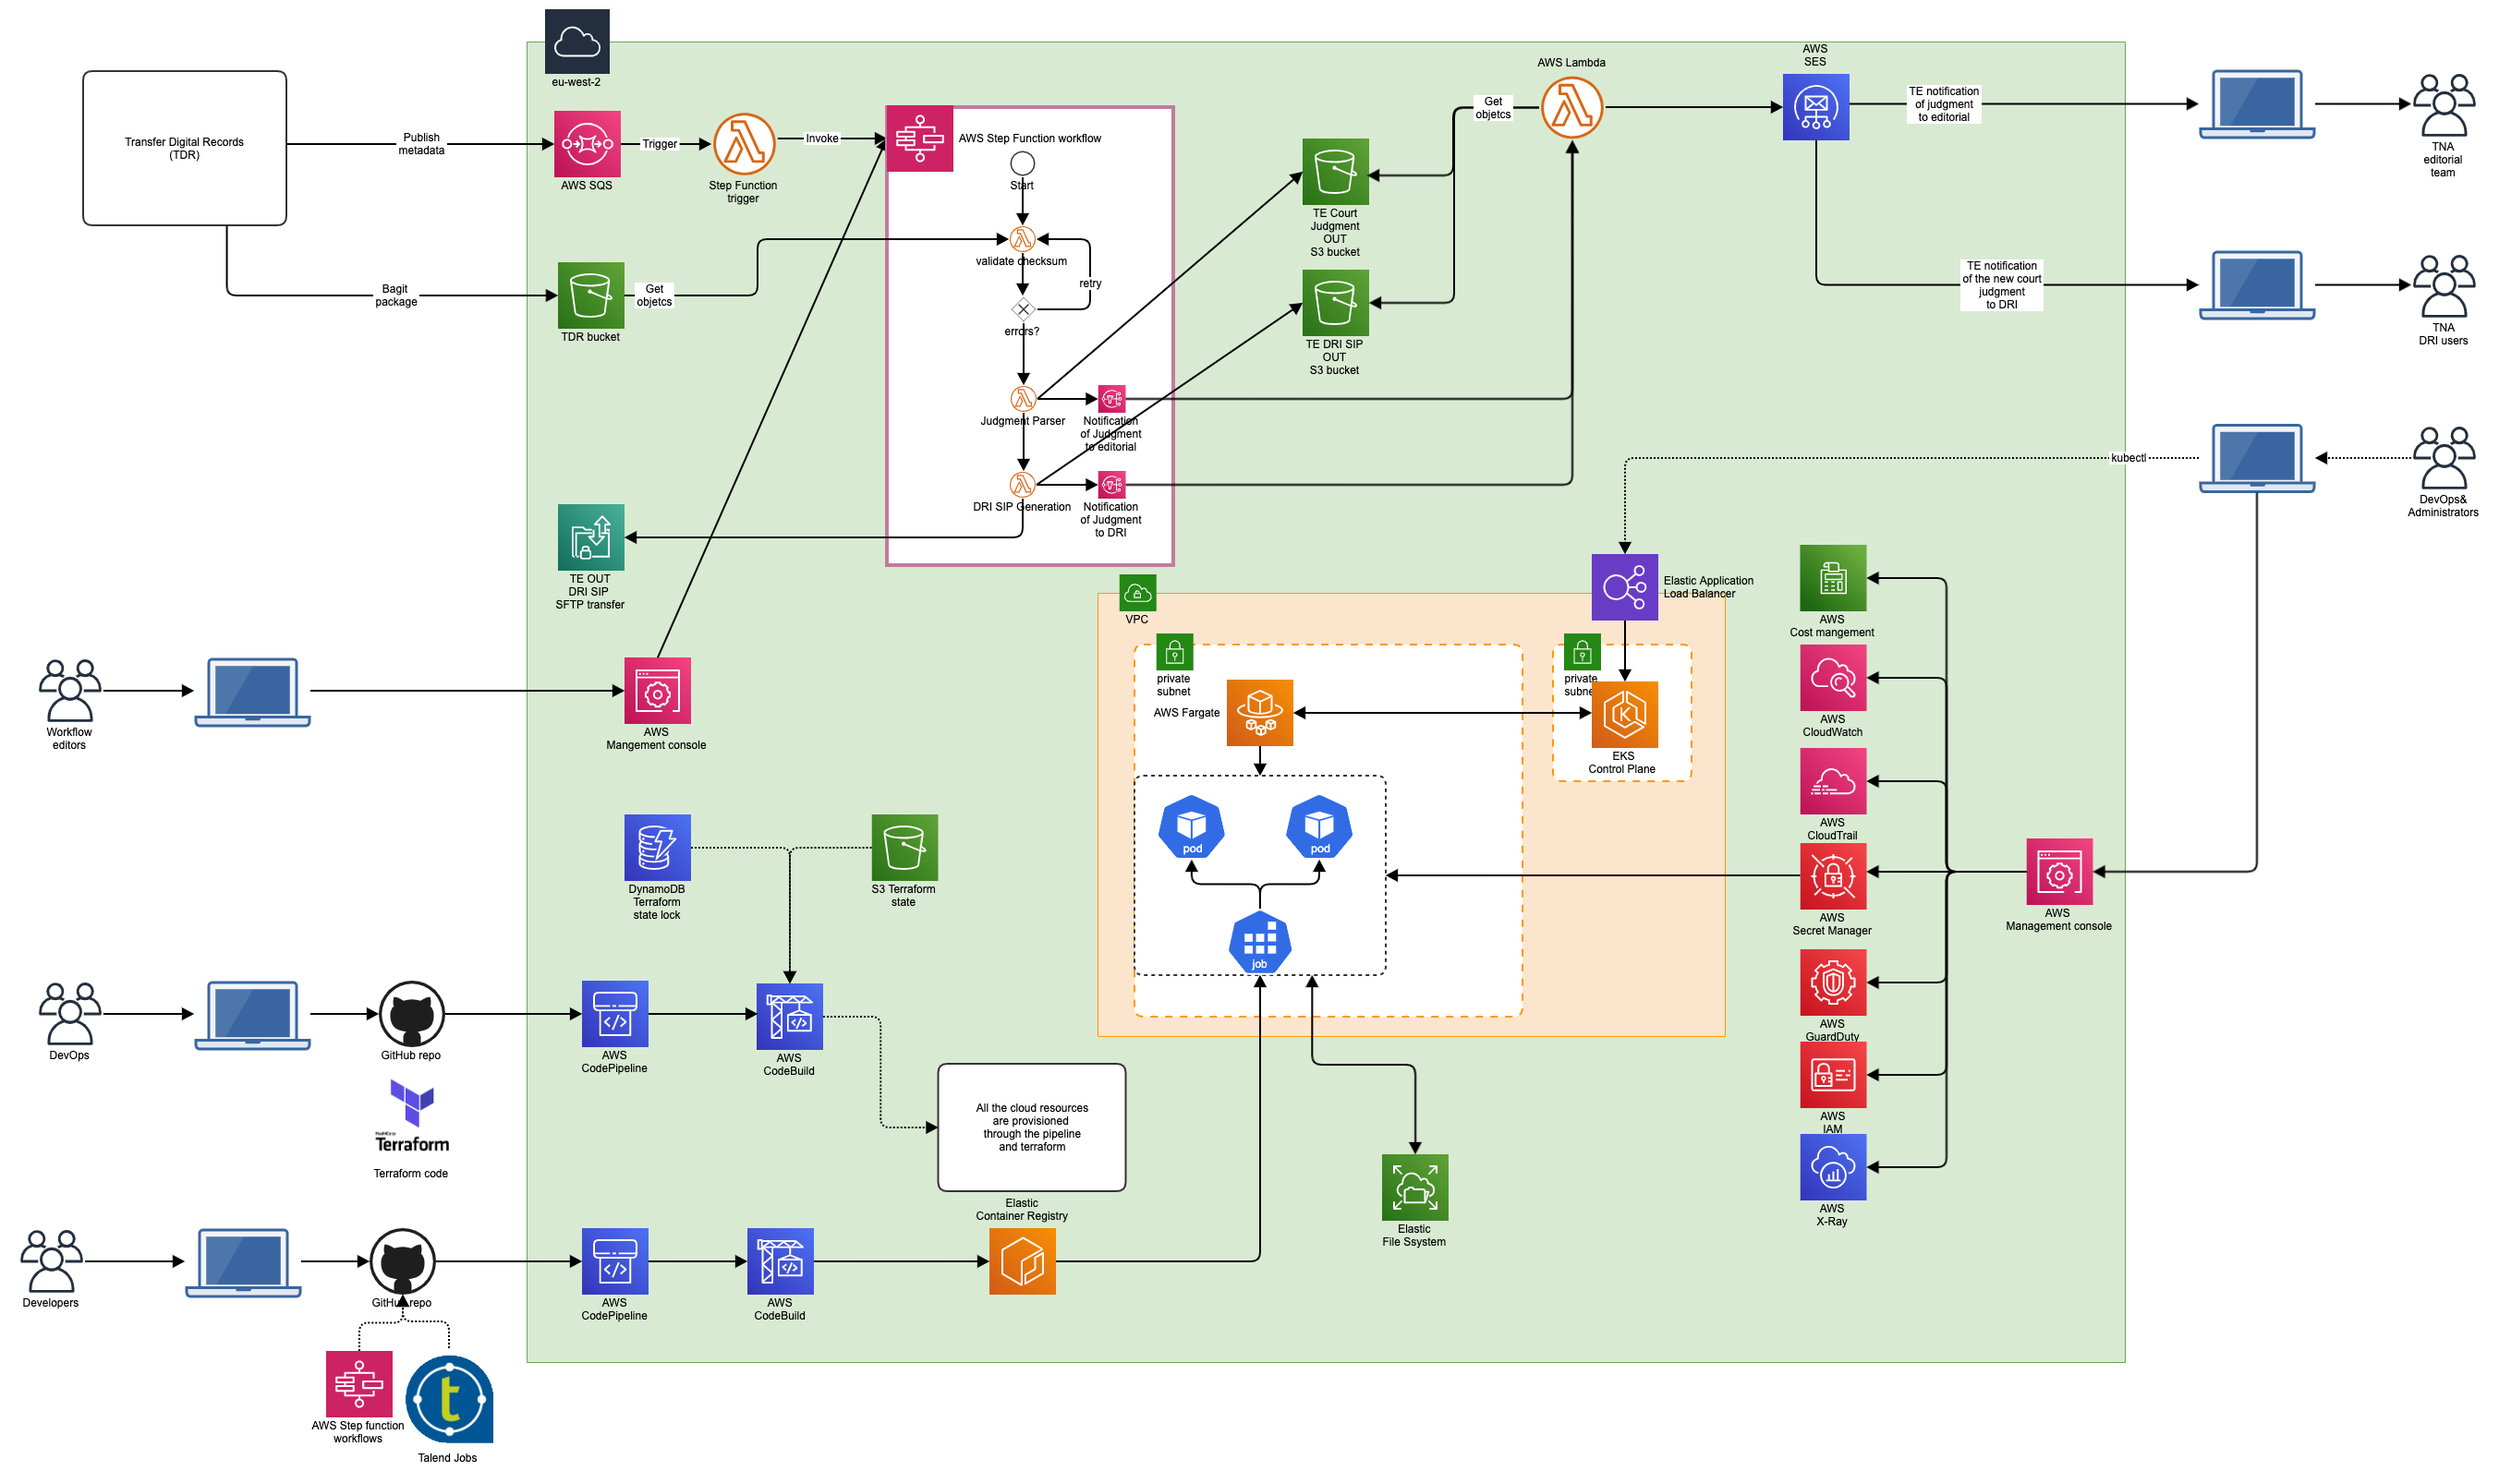
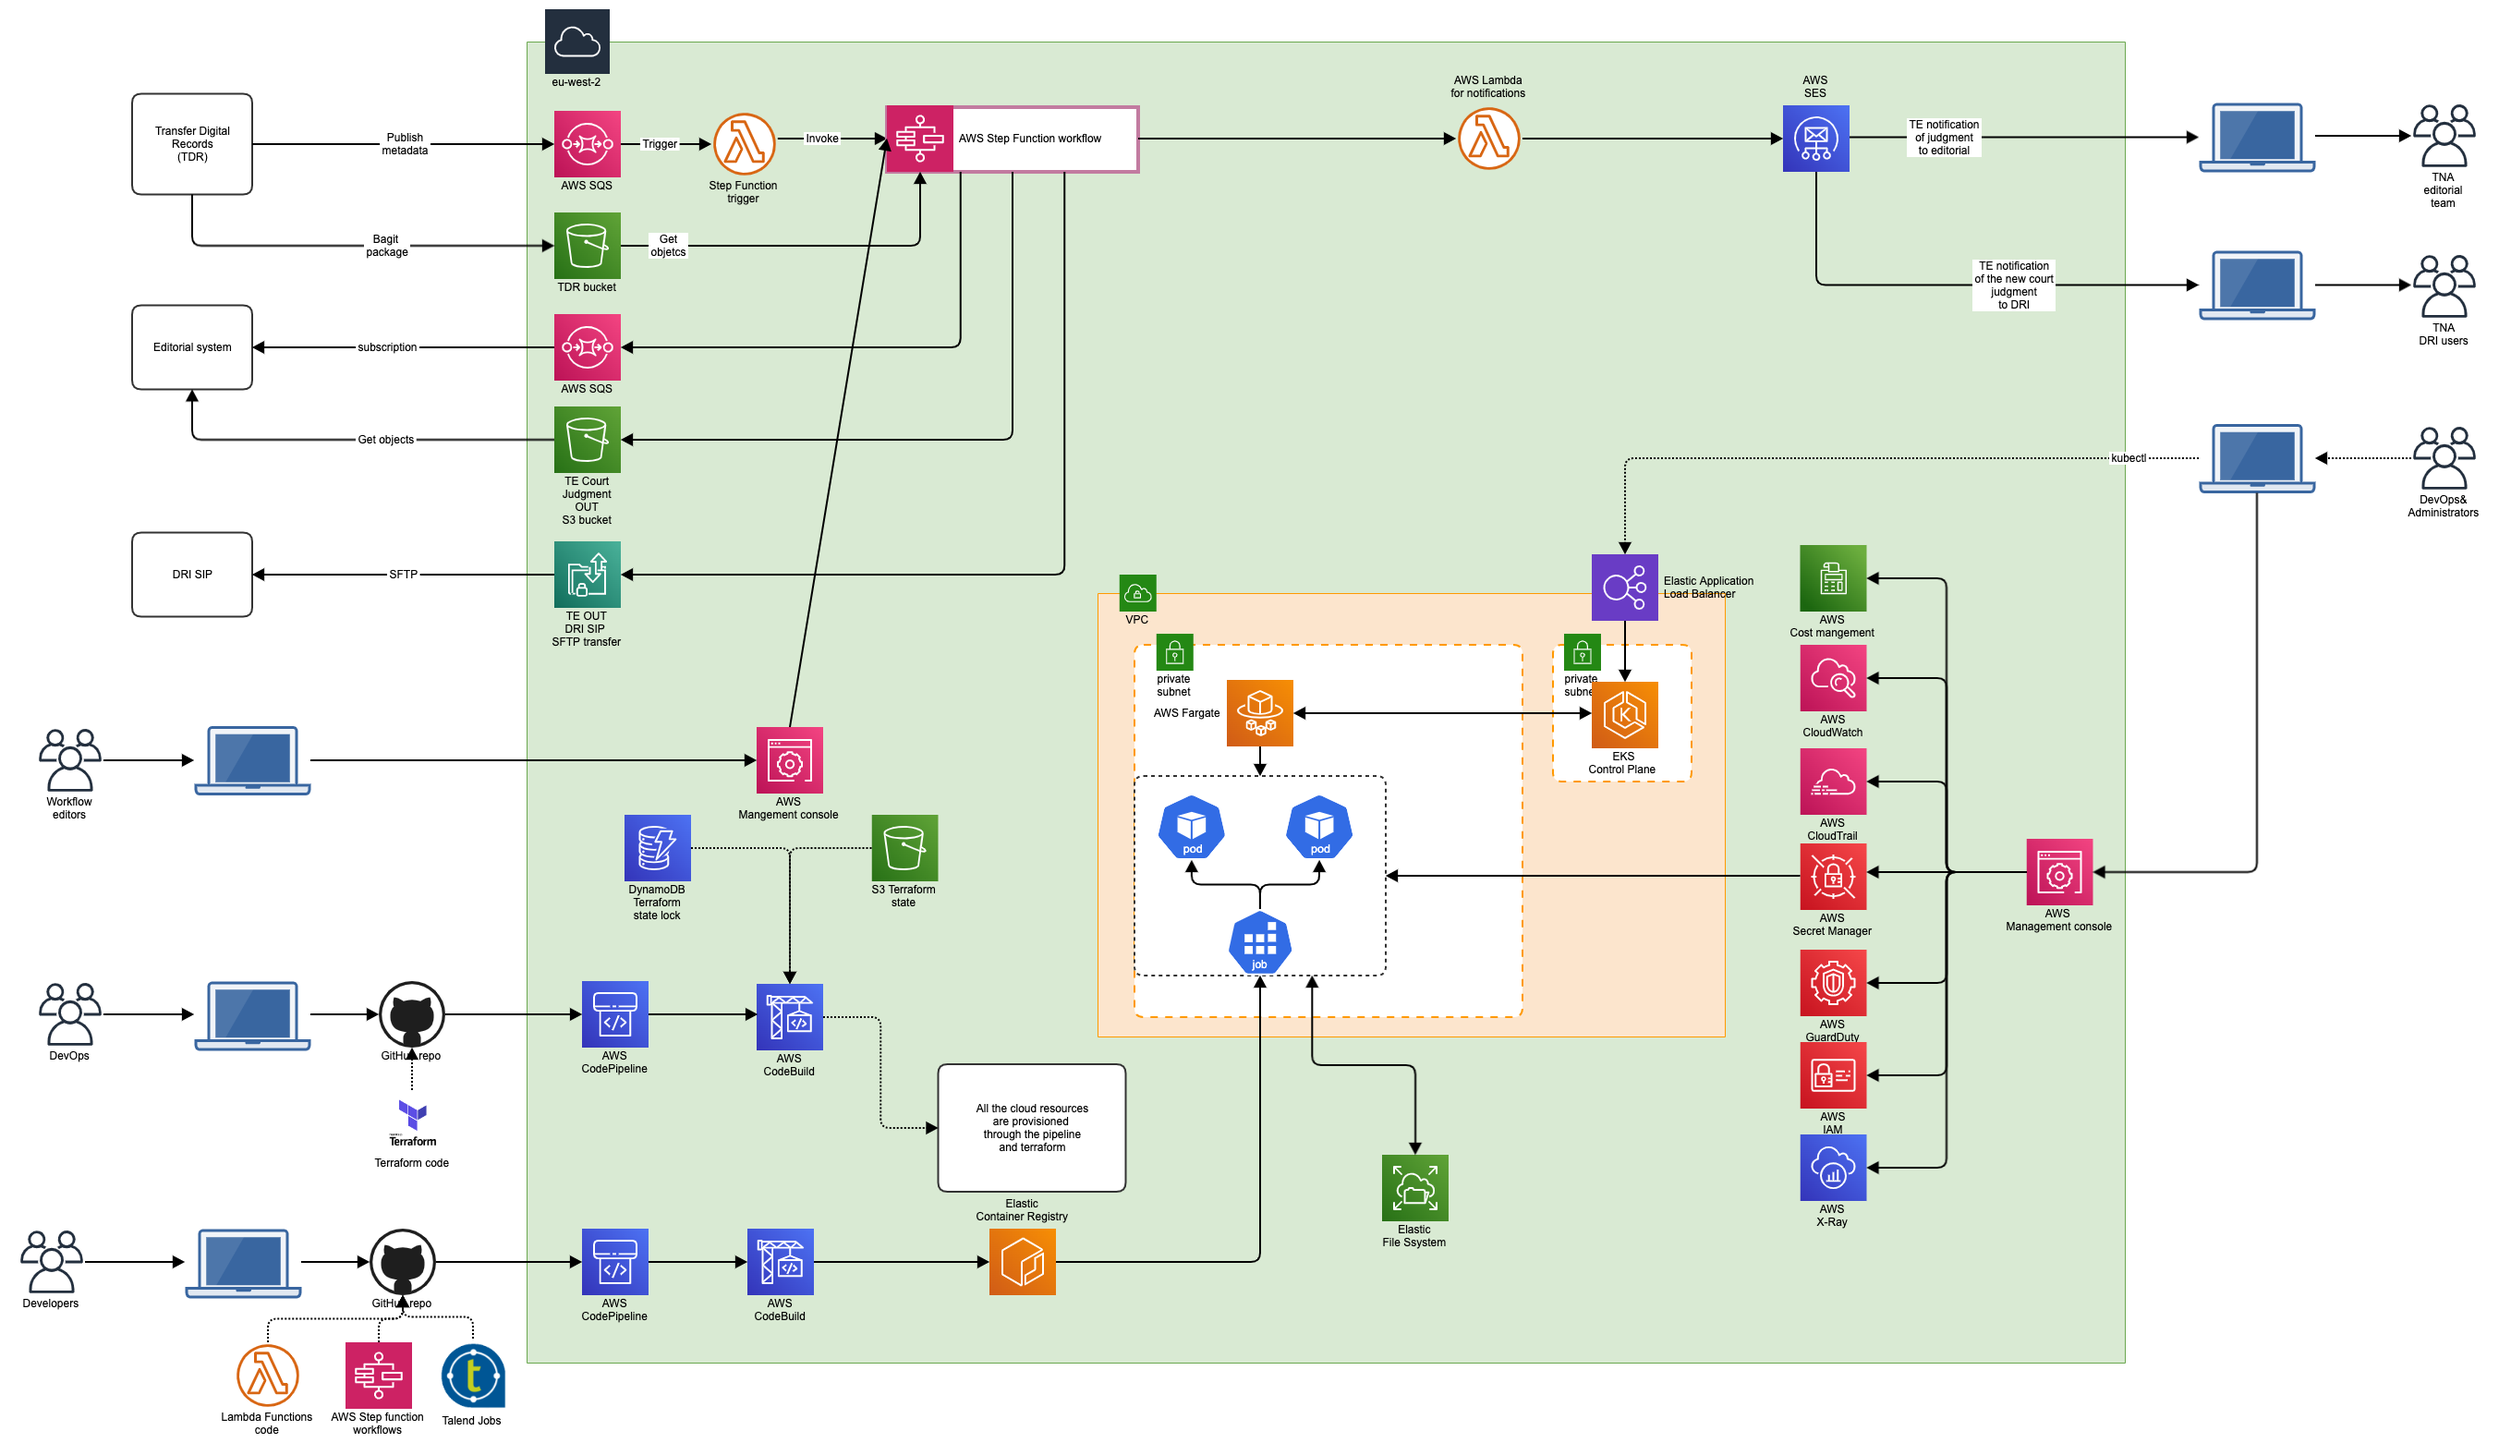
Updated the documentation and diagrams.

diff --git a/tdr-integration/README.md b/tdr-integration/README.md
@@ -4,6 +4,7 @@
 - [Introduction](#introduction)
 - [Message exchange method and format](#message-exchange-method-and-format)
 - [Credentials exchange and bucket permissions](#credentials-exchange-and-bucket-permissions)
+- [Retry mechanism](#retry-mechanism)
 
 ## Introduction
 
@@ -14,12 +15,13 @@ Transfer Digital Record (TDR) will produce a [BagIt package](https://datatracker
 TE will exchange messages with TDR using an AWS SQS queue as per the [MVP Beta technical design](./../beta-mvp-architecture/README.md). The message will have the following format:
 
 ```json
+
 {
-  "consignment-reference" : "TDR-2021-GW3",
-  "s3-bagit-url" : "https://presignedurldemo.s3.eu-west-2.amazonaws.com/image.png",
-  "s3-sha-url" : "https://presignedurldemo.s3.eu-west-2.amazonaws.com/image.png",
-  "consignment-type" : "Court Judgment",
-  "number-of-retries" : 0
+  "consignment-reference": "TDR-2022-C67H",
+  "s3-bagit-url": "https://tdr-consignment-export-judgment-intg.s3.eu-west-2.amazonaws.com/TDR-2022-C67H.tar.gz?X-Amz-Security-Token=IQoJb3JpZ2luX2VjEJf%2F%2F%2F%2F%2F%2F%2F%2F%2F%2FwEaCWV1LXdlc3QtMiJIMEYCIQDLTmaISu2r83kDSVlR%2F1uF1CgUv5rzy4iCG8jsG9%2F5wgIhAIyi2R%2F7XSdm6h7KLPBB6J0RVUCFO%2FWTgBL%2F1vtzKA3YKqQCCPD%2F%2F%2F%2F%2F%2F%2F%2F%2F%2FwEQAhoMMjI5NTU0Nzc4Njc1Igye71PDmIudFYcsh5cq%2BAET%2F7sg5ecibhtmTRT7wpgPySuAet%2FABHE%2B49m53K7v4%2F3NTtTf9grvosoN9iO0DbvoaKaMccLJRlvCeLJ0Alsmh2NQf6w91t75AYKiMQ6oLIXmwc05Ewj2kND3L8uwBsjRoFNReNrWXFW1D7jiqiQpAw6BA05UW9K8%2Fwip55WrYyzBt84btm0Zy2ryVwseFEaOsEHHjglt%2Bl83r1GkGt7iLcJ7ZpvSAp6WjI3zRxqzyXc%2B%2Bs0IsJukZ9P3NQZIbeUADegqDhOq6BHoLTYryajRrSUX3WiGFf%2B7%2FVI55muASwtUYCkR20wQutty2xKMXGVwlZSgpw%2BkiTDsuPOQBjqZAQafrMvrVG5FO5mPvY8rwVfag9z%2FhiOP7juMJ7GEwaNoMouZJvbslIGk6mfOWxfZ1qE99oRlKt9YuF1u53bPynC17N1vfIr9kW2bEsDLxndz35ZRR2yEjwhgwulbZdykVxjc%2BM%2BiDiGrtj53%2BlAOy8xSFZl1AMkBuAtNjAsTqGNyHzLQSJfeb83%2BoOIPe4O4%2B7wM7hStr28rAQ%3D%3D&X-Amz-Algorithm=AWS4-HMAC-SHA256&X-Amz-Date=20220228T143015Z&X-Amz-SignedHeaders=host&X-Amz-Expires=60&X-Amz-Credential=ASIATK4UH6IZTWHYAHCS%2F20220228%2Feu-west-2%2Fs3%2Faws4_request&X-Amz-Signature=c39106d6f8b2e23ab4c896825bdc4489f4fb4bb41d93f4b9ec70e52aa0ad8399",
+  "s3-sha-url": "https://tdr-consignment-export-judgment-intg.s3.eu-west-2.amazonaws.com/TDR-2022-C67H.tar.gz.sha256?X-Amz-Security-Token=IQoJb3JpZ2luX2VjEJf%2F%2F%2F%2F%2F%2F%2F%2F%2F%2FwEaCWV1LXdlc3QtMiJIMEYCIQDLTmaISu2r83kDSVlR%2F1uF1CgUv5rzy4iCG8jsG9%2F5wgIhAIyi2R%2F7XSdm6h7KLPBB6J0RVUCFO%2FWTgBL%2F1vtzKA3YKqQCCPD%2F%2F%2F%2F%2F%2F%2F%2F%2F%2FwEQAhoMMjI5NTU0Nzc4Njc1Igye71PDmIudFYcsh5cq%2BAET%2F7sg5ecibhtmTRT7wpgPySuAet%2FABHE%2B49m53K7v4%2F3NTtTf9grvosoN9iO0DbvoaKaMccLJRlvCeLJ0Alsmh2NQf6w91t75AYKiMQ6oLIXmwc05Ewj2kND3L8uwBsjRoFNReNrWXFW1D7jiqiQpAw6BA05UW9K8%2Fwip55WrYyzBt84btm0Zy2ryVwseFEaOsEHHjglt%2Bl83r1GkGt7iLcJ7ZpvSAp6WjI3zRxqzyXc%2B%2Bs0IsJukZ9P3NQZIbeUADegqDhOq6BHoLTYryajRrSUX3WiGFf%2B7%2FVI55muASwtUYCkR20wQutty2xKMXGVwlZSgpw%2BkiTDsuPOQBjqZAQafrMvrVG5FO5mPvY8rwVfag9z%2FhiOP7juMJ7GEwaNoMouZJvbslIGk6mfOWxfZ1qE99oRlKt9YuF1u53bPynC17N1vfIr9kW2bEsDLxndz35ZRR2yEjwhgwulbZdykVxjc%2BM%2BiDiGrtj53%2BlAOy8xSFZl1AMkBuAtNjAsTqGNyHzLQSJfeb83%2BoOIPe4O4%2B7wM7hStr28rAQ%3D%3D&X-Amz-Algorithm=AWS4-HMAC-SHA256&X-Amz-Date=20220228T143015Z&X-Amz-SignedHeaders=host&X-Amz-Expires=60&X-Amz-Credential=ASIATK4UH6IZTWHYAHCS%2F20220228%2Feu-west-2%2Fs3%2Faws4_request&X-Amz-Signature=9d1ae37117e89fe400f77490813310545b0968d9bea91559e3e5d29ceef28c3c",
+  "consignment-type": "judgment",
+  "number-of-retries": 0
 }
 
 ```
@@ -31,3 +33,7 @@ In the AWS Account where the TDR system is provisioned there will be AWS IAM Rol
 TDR IAM Roles will have permissions to write a message to the AWS SQS queue in the AWS account where the TE is provisioned, and TE IAM Roles will have permissions to write a message to the AWS SQS queue where the TDR is provisioned.
 
 The message will contain [S3 presigned URLs](https://docs.aws.amazon.com/AmazonS3/latest/userguide/ShareObjectPreSignedURL.html) to retrieve the objects from the TDR S3 bucket.
+
+## Retry mechanism
+
+To Do

diff --git a/editorial-system-integration/README.md b/editorial-system-integration/README.md
@@ -1,0 +1,38 @@
+# Editorial System integration
+
+## Table of Contents
+- [Introduction](#introduction)
+- [Message exchange method and format](#message-exchange-method-and-format)
+- [Credentials exchange and bucket permissions](#credentials-exchange-and-bucket-permissions)
+
+## Introduction
+
+![pic1](../beta-mvp-architecture/diagrams/aws-step-function-workflow-for-te.png)
+
+The TE will produce the following outputs for the Editorial system:
+1. the data payload (i.e., the judgment itself)
+2. the XML outputs of the parser 
+3. any processing errors so the editorial team can make an assessment on whether the publishing can go ahead
+4. a metadata file (XML or JSON format) which contains the TE version and the text Parser version
+
+## Message exchange method and format
+
+TE will exchange messages with Editorial system using an AWS SQS queue as per the [MVP Beta technical design](./../beta-mvp-architecture/README.md). The message will have the following format:
+
+```json
+
+{
+  "consignment-reference": "TDR-2022-C67H",
+  "s3-folder-url": "https://sqs.eu-west-2.amazonaws.com/882876621099/int-tdr-message/TDR-2022-C67H?X-Amz-Security-Token=IQoJb3JpZ2luX2VjEJf%2F%2F%2F%2F%2F%2F%2F%2F%2F%2FwEaCWV1LXdlc3QtMiJIMEYCIQDLTmaISu2r83kDSVlR%2F1uF1CgUv5rzy4iCG8jsG9%2F5wgIhAIyi2R%2F7XSdm6h7KLPBB6J0RVUCFO%2FWTgBL%2F1vtzKA3YKqQCCPD%2F%2F%2F%2F%2F%2F%2F%2F%2F%2FwEQAhoMMjI5NTU0Nzc4Njc1Igye71PDmIudFYcsh5cq%2BAET%2F7sg5ecibhtmTRT7wpgPySuAet%2FABHE%2B49m53K7v4%2F3NTtTf9grvosoN9iO0DbvoaKaMccLJRlvCeLJ0Alsmh2NQf6w91t75AYKiMQ6oLIXmwc05Ewj2kND3L8uwBsjRoFNReNrWXFW1D7jiqiQpAw6BA05UW9K8%2Fwip55WrYyzBt84btm0Zy2ryVwseFEaOsEHHjglt%2Bl83r1GkGt7iLcJ7ZpvSAp6WjI3zRxqzyXc%2B%2Bs0IsJukZ9P3NQZIbeUADegqDhOq6BHoLTYryajRrSUX3WiGFf%2B7%2FVI55muASwtUYCkR20wQutty2xKMXGVwlZSgpw%2BkiTDsuPOQBjqZAQafrMvrVG5FO5mPvY8rwVfag9z%2FhiOP7juMJ7GEwaNoMouZJvbslIGk6mfOWxfZ1qE99oRlKt9YuF1u53bPynC17N1vfIr9kW2bEsDLxndz35ZRR2yEjwhgwulbZdykVxjc%2BM%2BiDiGrtj53%2BlAOy8xSFZl1AMkBuAtNjAsTqGNyHzLQSJfeb83%2BoOIPe4O4%2B7wM7hStr28rAQ%3D%3D&X-Amz-Algorithm=AWS4-HMAC-SHA256&X-Amz-Date=20220228T143015Z&X-Amz-SignedHeaders=host&X-Amz-Expires=60&X-Amz-Credential=ASIATK4UH6IZTWHYAHCS%2F20220228%2Feu-west-2%2Fs3%2Faws4_request&X-Amz-Signature=c39106d6f8b2e23ab4c896825bdc4489f4fb4bb41d93f4b9ec70e52aa0ad8399",
+  "consignment-type": "judgment"
+}
+
+```
+
+## Credentials exchange and bucket permissions
+
+In the AWS Account where the Editorial system is provisioned there will be AWS IAM Roles defined, based on prod and non-prod environments.
+
+Editorial IAM Roles will have permissions to write a message to the AWS SQS queue in the AWS account where the TE is provisioned.
+
+The message will contain [S3 presigned URLs](https://docs.aws.amazon.com/AmazonS3/latest/userguide/ShareObjectPreSignedURL.html) to retrieve the objects from the TDR S3 bucket.

diff --git a/beta-mvp-architecture/README.md b/beta-mvp-architecture/README.md
@@ -10,6 +10,7 @@
     - [Workflow Studio for AWS Step Functions](#workflow-studio-for-aws-step-functions)
     - [AWS Step Function Workflow for TE](#aws-step-function-workflow-for-te)
 - [Quotas for the AWS services](#quotas-for-the-aws-services)
+- [AWS accounts management](#aws-accounts-management)
 
 ## Introduction
 
@@ -93,3 +94,7 @@ The following diagram shows the workoflow implemented in AWS Step Function for t
 * [Amazon Simple Notification Service endpoints and quotas](https://docs.aws.amazon.com/general/latest/gr/sns.html)
 * [Service quotas in Amazon SES](https://docs.aws.amazon.com/ses/latest/dg/quotas.html)
 * [Quotas for Amazon GuardDuty](https://docs.aws.amazon.com/guardduty/latest/ug/guardduty_limits.html)
+
+## AWS accounts management
+
+To Do
